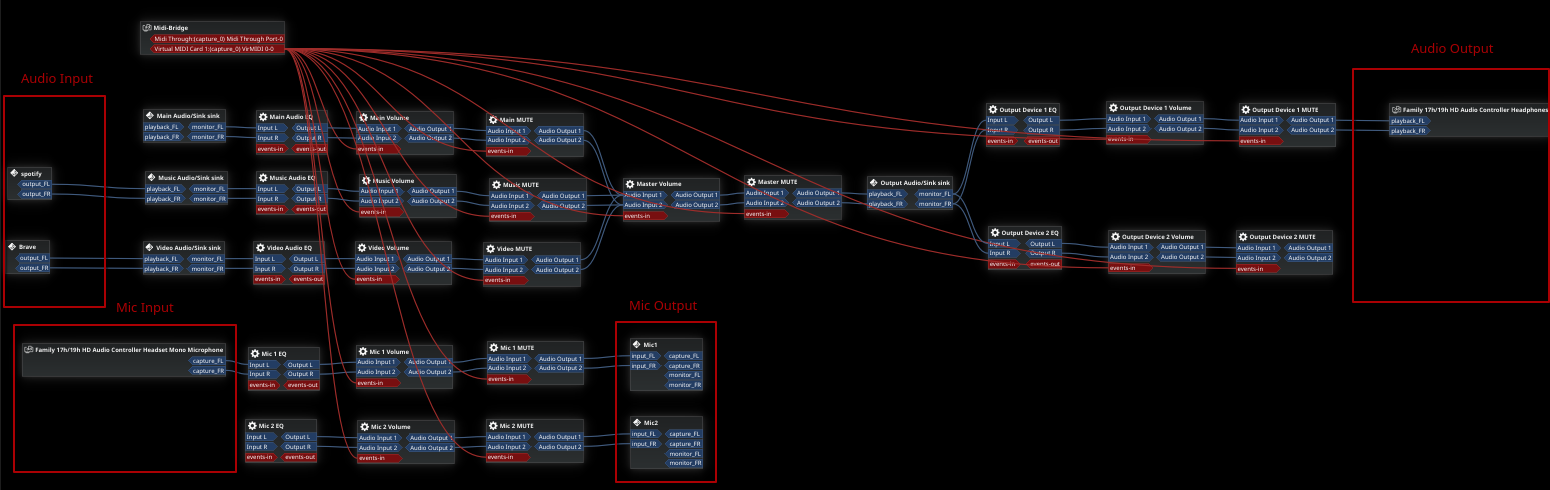
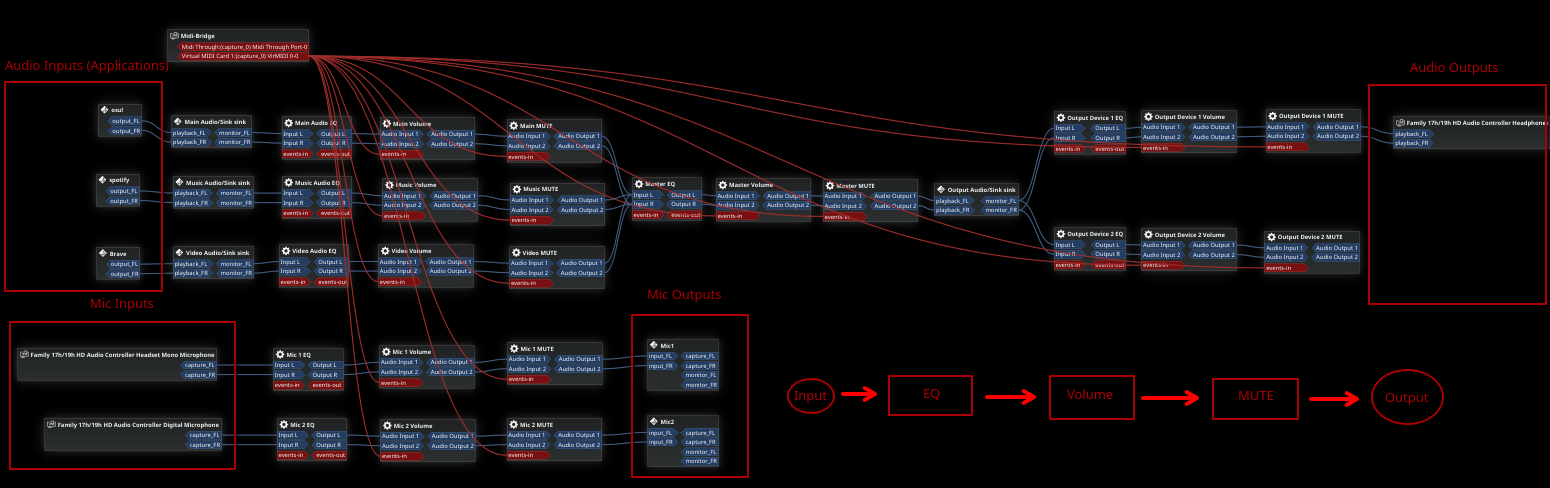
thing

diff --git a/Audio Stuff/README.md b/Audio Stuff/README.md
@@ -3,6 +3,8 @@
 
 Audio setup on Linux using PipeWire, Carla, qpwgraph, xbindkeys, virtual sinks, virtual MIDI devices and custom bash scripts.
 
+Audio handled like `[INPUT] > EQ (LSP Parametric Equalizer x16 Stereo) > Volume (Audio Gain (Stereo)) > MUTE (Audio Gain (Stereo)) > [OUTPUT]`
+
 ## Stuff
 * `Carla`: used as a plugin host
 * `qpwgraph`: used as a graph and to automatically or manually route my audio sources
